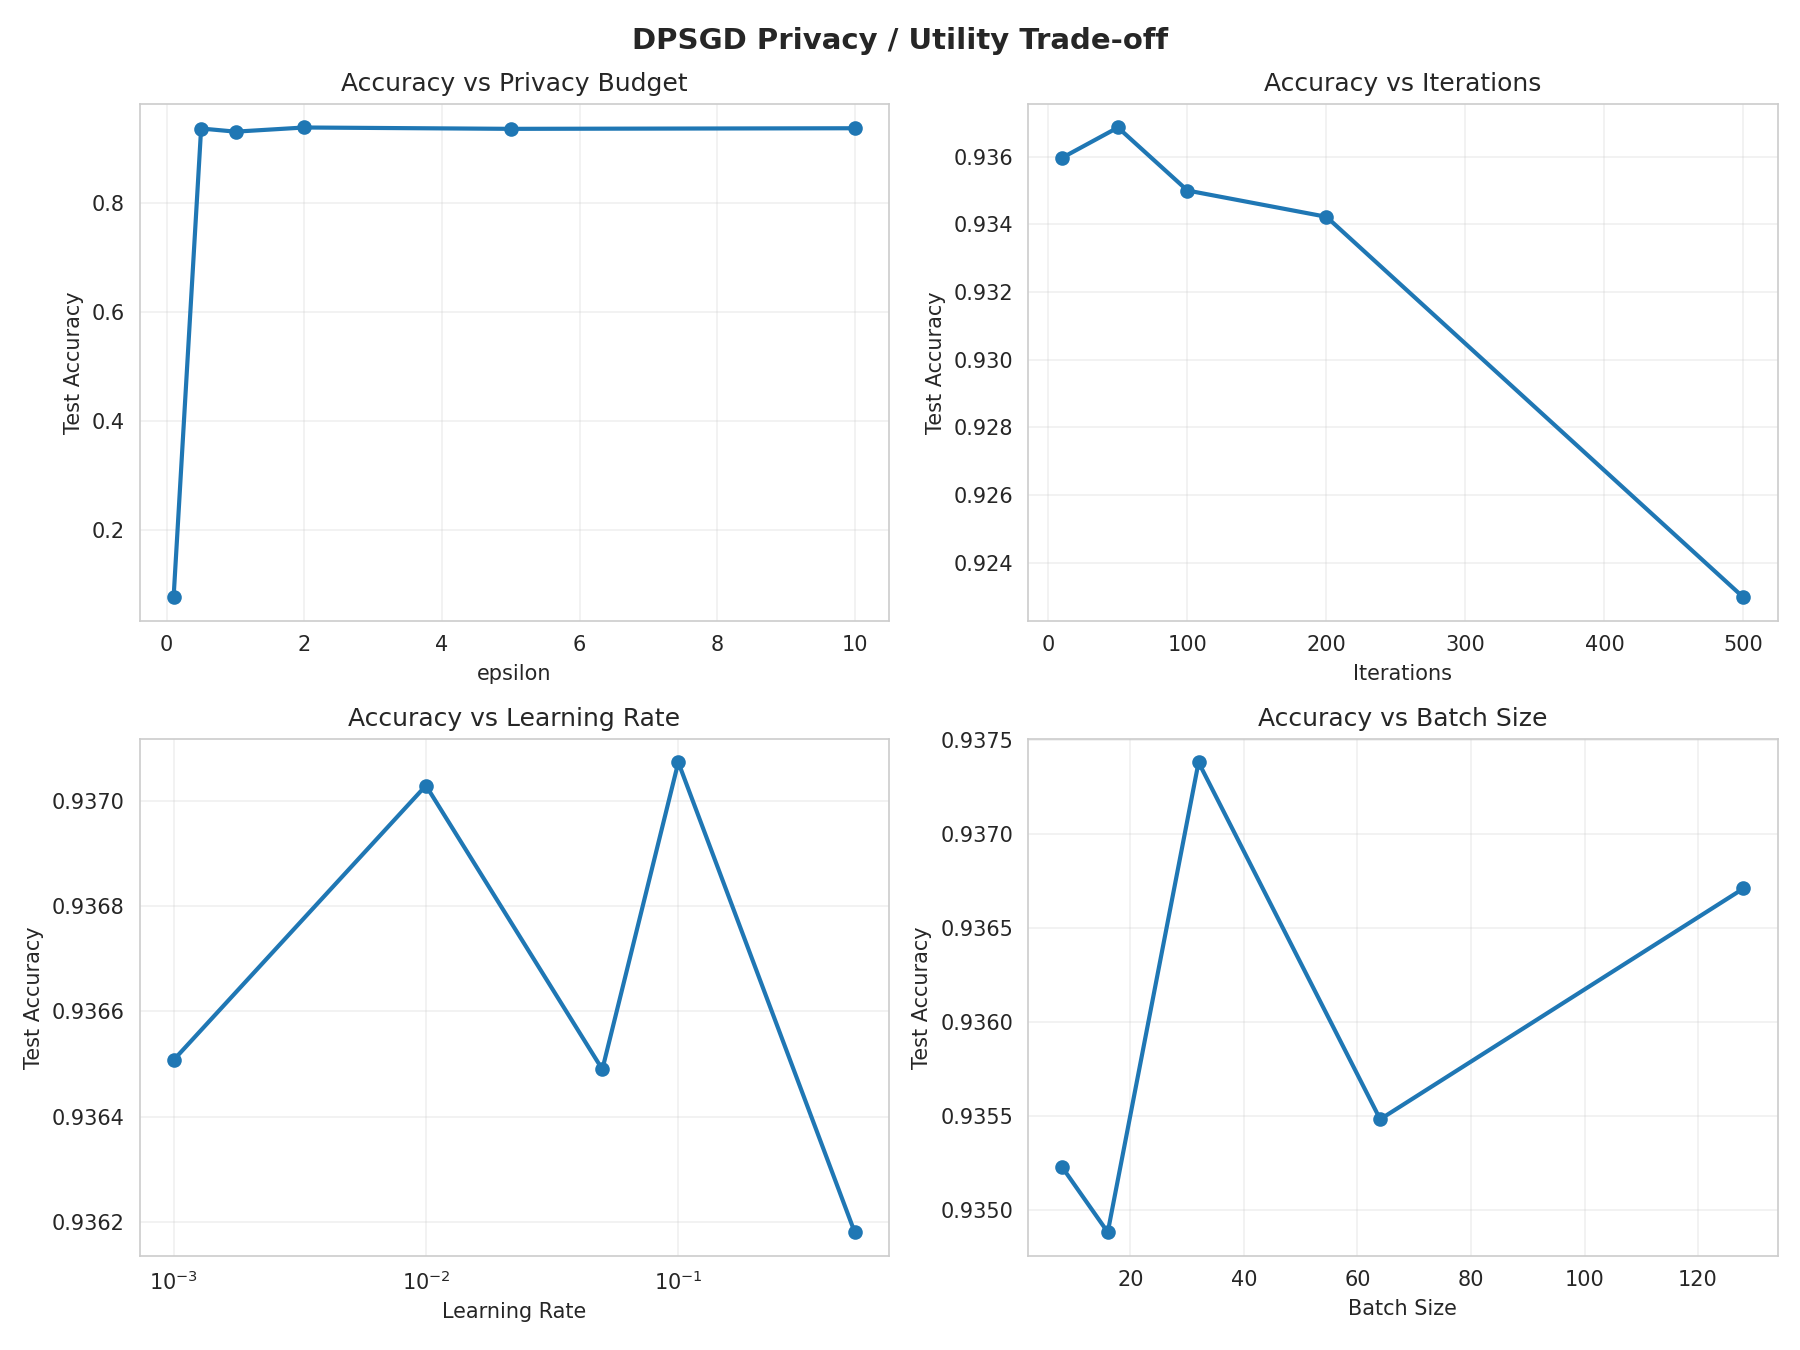
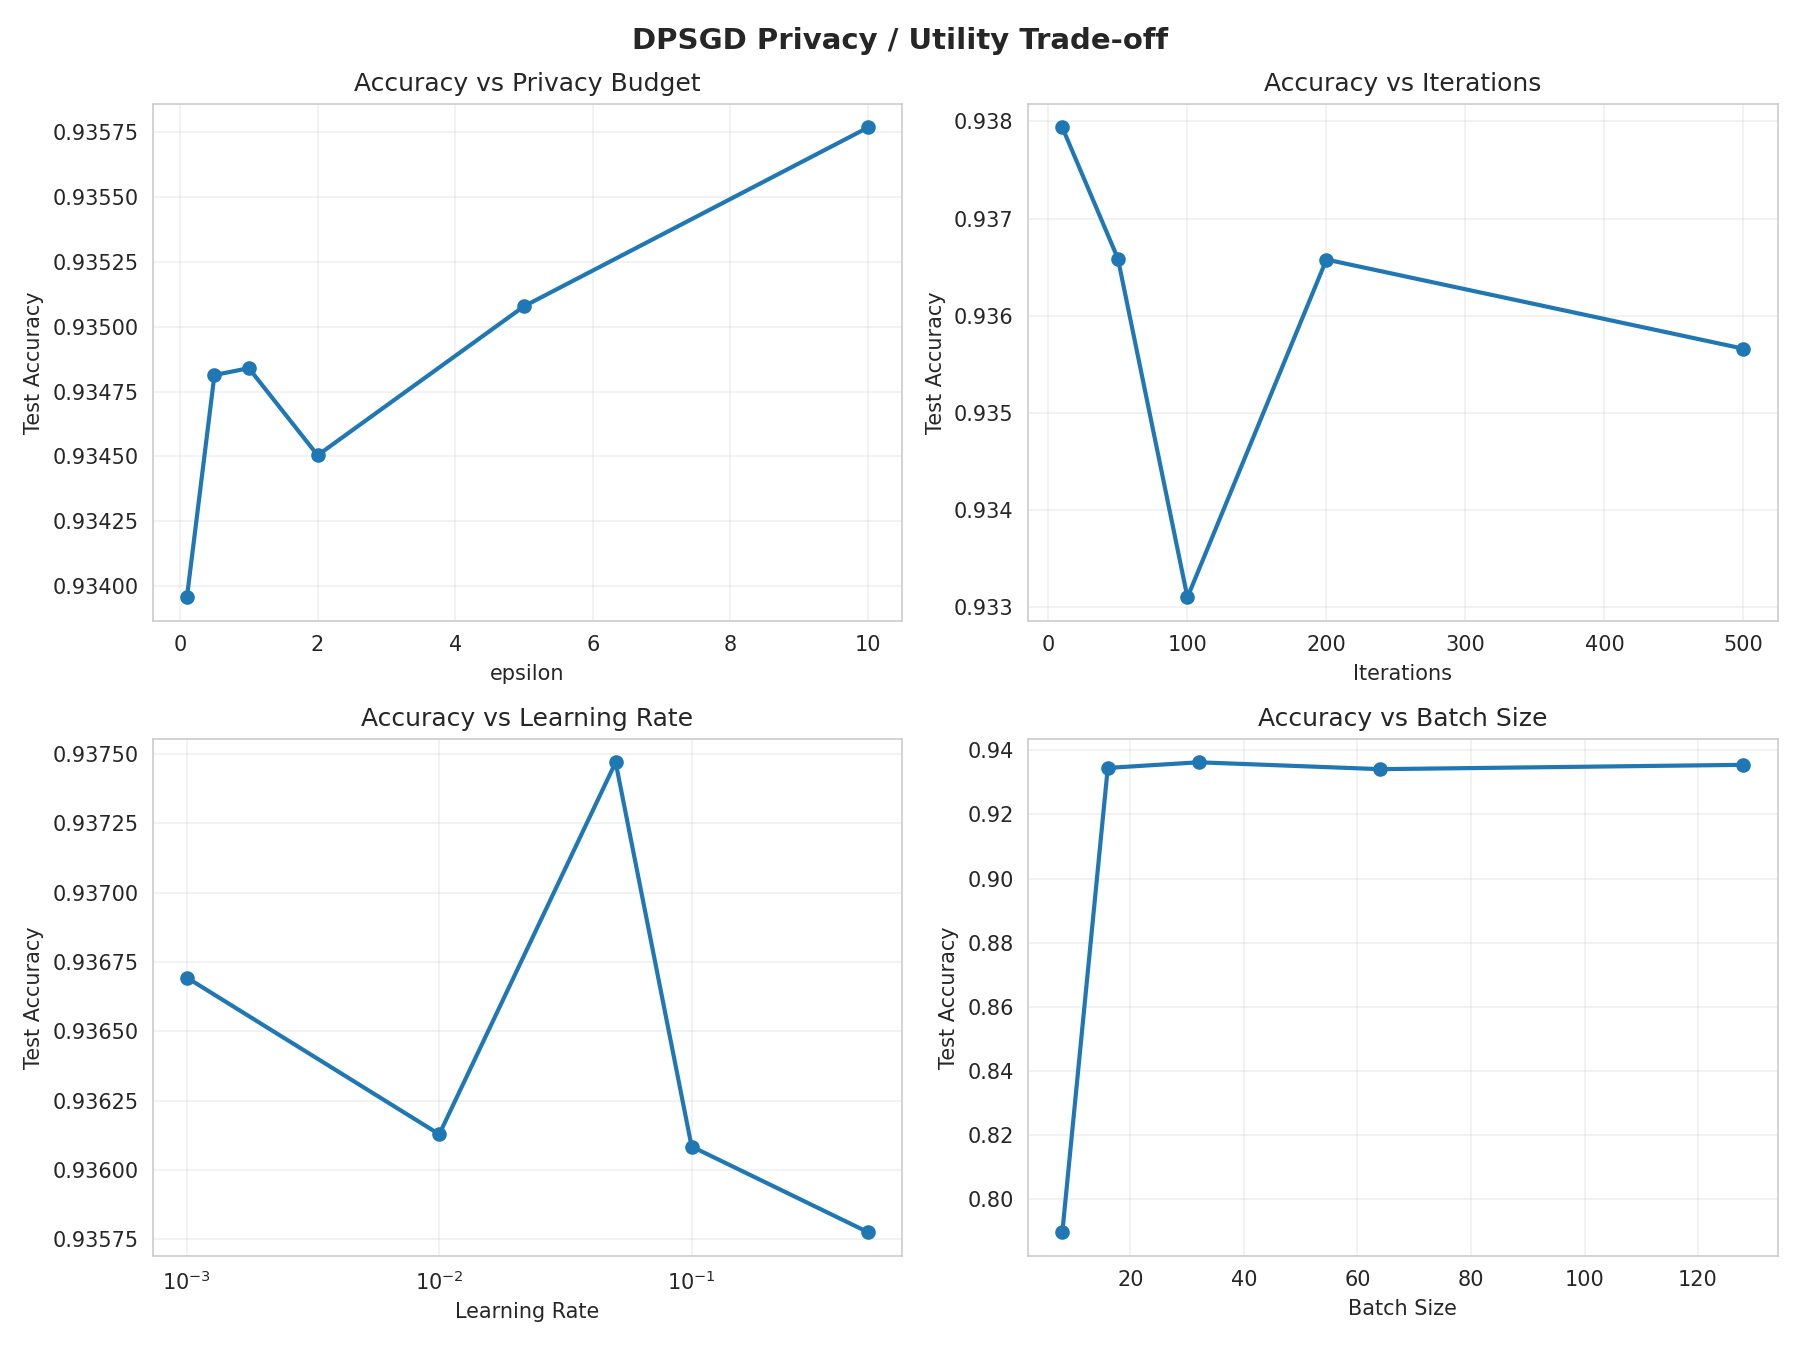
changes to e4.py

diff --git a/ex04/e4.py b/ex04/e4.py
@@ -16,9 +16,11 @@ sns.set_style("whitegrid")
 
 # This is the gradient of the logistic loss
 def gradient(weights, xi, yi):
-    yi = -1 if yi == 0 else 1
+    # yi = -1 if yi == 0 else 1
     exponent = yi * (xi.dot(weights))
+    print(exponent)
     return - (yi*xi) / (1+np.exp(exponent))
+    
 
 
 def rdpgd(iterations, alpha, epsilon_bar):
@@ -28,29 +30,32 @@ def rdpgd(iterations, alpha, epsilon_bar):
     weights = np.zeros(X_train.shape[1])
     n = X_train.shape[0]
 
-    epsilon_step = epsilon_bar / iterations
+    # everytime we add noise on the gradient we need privacy budget
+    # using sequential composition we split epsilon
+    epsilon_step = epsilon_bar / (iterations * n)
     sigma = np.sqrt(alpha / (2 * epsilon_step))
 
     for t in range(iterations):
 
         # gradient
-        grad = np.zeros_like(weights)
+        grad_sum = np.zeros_like(weights)
         for i in range(n):
-            grad += gradient(weights, X_train[i], y_train[i])
-        grad /= n
-
-        # do we clip here?
-        grad_norm = np.linalg.norm(grad)
-        if grad_norm > 1.0:
-            grad = grad * (1.0 / grad_norm)
-
-        # noise
-        noise = np.random.normal(loc=0, scale=sigma / n, size=weights.shape)
-        noisy_grad = grad + noise
+            grad = gradient(weights, X_train[i], y_train[i])
         
+            # do we clip here?
+            grad_norm = np.linalg.norm(grad)
+            if grad_norm > 1.0:
+                grad = grad * (1.0 / grad_norm)
+
+            # noise
+            noise = np.random.normal(loc=0, scale=sigma, size=weights.shape)
+            noisy_grad = grad + noise
+
+            grad_sum += noisy_grad
+
         # weight update
-        lr = 0.1
-        weights -= lr * noisy_grad
+        learning_rate = 0.1
+        weights -= learning_rate * (grad_sum / n)
 
     model = LogisticRegression(max_iter=100)
     model.coef_ = weights.reshape(1, -1)
@@ -68,7 +73,12 @@ def dpsgd(iterations, epsilon, delta, learning_rate, batch_size, C):
     n = X_train.shape[0]
     weights = np.zeros(X_train.shape[1])
 
-    sigma = C * np.sqrt(2 * np.log(1.25 / delta)) / epsilon
+    # everytime we add noise on the gradient we need privacy budget
+    # using sequential composition we split epsilon
+    # worse case we touch each data point in each batch
+    # that's why we need to split by batch_size * n
+    epsilon_step = epsilon / (batch_size * n)
+    sigma = C * np.sqrt(2 * np.log(1.25 / delta)) / epsilon_step
 
     for t in range(iterations):
         indices = np.random.choice(n, size=batch_size, replace=False)
@@ -81,12 +91,10 @@ def dpsgd(iterations, epsilon, delta, learning_rate, batch_size, C):
             if g_norm > C:
                 g = g * (C / g_norm)
 
-            grad_sum += g
+            noise = np.random.normal(0, sigma, size=weights.shape)
+            grad_sum += (g + noise)
 
-        noise = np.random.normal(0, sigma, size=weights.shape)
-        noisy_grad = (grad_sum + noise) / batch_size
-
-        weights -= learning_rate * noisy_grad
+        weights -= learning_rate * (grad_sum / batch_size)
 
     model = LogisticRegression(max_iter=100)
     model.coef_      = weights.reshape(1, -1)
@@ -229,6 +237,6 @@ def task3():
 if __name__ == "__main__":
     task1()
     task2()
-    task3()
+    #task3()
 
 # %%